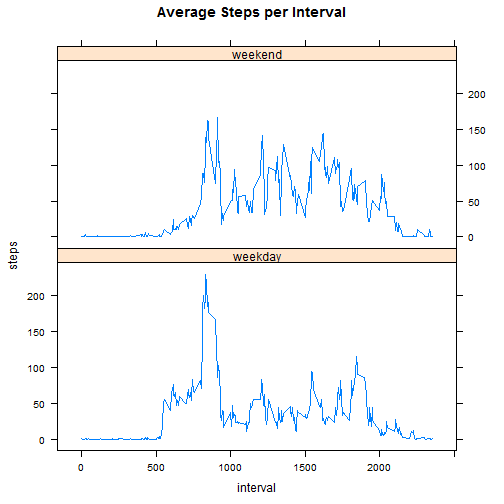
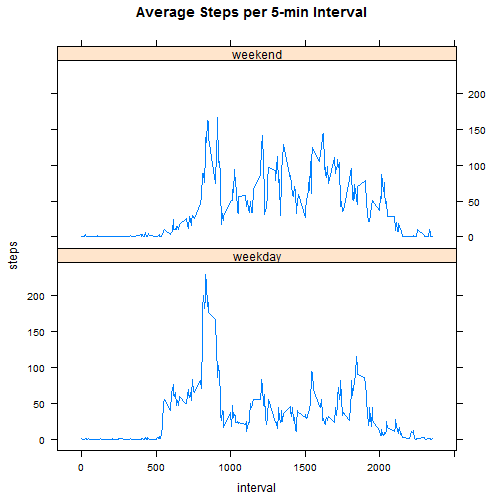
Final for grading
This version updates the first line chart to lattice (base plot didn't
look good); and has in-line mean/median values.  The lack of precise
control of rounding/scientific notation in knitr is annoying...

Changed region(s): [[0.2679, 0.0, 0.744, 0.0595]]

diff --git a/PA1_template.html b/PA1_template.html
@@ -188,9 +188,10 @@ hljs.initHighlightingOnLoad();
 <pre><code class="r">stepData &lt;- read.csv(&quot;./activity.csv&quot;, header = TRUE)
 stepData$date &lt;- as.Date(stepData$date,format=&quot;%Y-%m-%d&quot;)
 rowcount &lt;- nrow(stepData)
+options(scipen=4, digits=8)  ## to ensure data not in scientific notation digits
 </code></pre>
 
-<p>There are  r rowcount observations</p>
+<p>There are  17568 observations</p>
 
 <h2>What is mean total number of steps taken per day?</h2>
 
@@ -202,46 +203,48 @@ colnames(stepsDay) &lt;- c(&quot;date&quot;,&quot;steps&quot;)
 
 <p>Then create a histogram of steps taken each day</p>
 
-<pre><code class="r">hist(stepsDay$steps)
+<pre><code class="r">hist(stepsDay$steps, main=&quot;Histogram of Daily Steps&quot;, xlab = &quot;Daily Steps&quot;)
 </code></pre>
 
[2 lines of base64/hex data omitted]
 
 <p>And use summary to get the mean and median steps per day</p>
 
-<pre><code class="r">summary(stepsDay)
+<pre><code class="r">daymean &lt;- summary(stepsDay$steps)[c(4)]
+daymedian &lt;- summary(stepsDay$steps)[c(3)]
 </code></pre>
 
-<pre><code>##       date                steps      
-##  Min.   :2012-10-02   Min.   :   41  
-##  1st Qu.:2012-10-16   1st Qu.: 8841  
-##  Median :2012-10-29   Median :10765  
-##  Mean   :2012-10-30   Mean   :10766  
-##  3rd Qu.:2012-11-16   3rd Qu.:13294  
-##  Max.   :2012-11-29   Max.   :21194
-</code></pre>
+<p>Mean is 10766 and median is 10765 &ndash; almost identical</p>
 
 <h2>What is the average daily activity pattern?</h2>
 
 <p>First aggregate by interval to get mean steps per interval</p>
 
-<pre><code class="r">stepMean &lt;- aggregate(stepData$steps ~ as.factor(stepData$interval),FUN = &quot;mean&quot;)
+<pre><code class="r">stepMean &lt;- aggregate(stepData$steps ~ stepData$interval,FUN = &quot;mean&quot;)
 colnames(stepMean) &lt;- c(&quot;interval&quot;,&quot;meanSteps&quot;)
 </code></pre>
 
-<p>Next create a time series plot of average steps per 5-minute interval</p>
+<p>Next create a time series plot of average steps per 5-minute interva</p>
 
-<pre><code class="r">with (stepMean, plot(interval, meanSteps, type=&quot;l&quot;))
+<pre><code class="r">require(lattice)
 </code></pre>
 
[1 lines of base64/hex data omitted]
-The 5-min interval with maximum average steps is </p>
+<pre><code>## Loading required package: lattice
+</code></pre>
+
+<pre><code class="r">xyplot(meanSteps ~ interval, 
+       data=stepMean, t=&quot;l&quot;, main=&quot;Average Steps per Interval&quot;,)
+</code></pre>
+
[1 lines of base64/hex data omitted]
+
+<p>The 5-min interval with maximum average steps is </p>
 
 <pre><code class="r">stepMean[stepMean$meanSteps==max(stepMean$meanSteps),] 
 </code></pre>
 
 <pre><code>##     interval meanSteps
-## 104      835     206.2
+## 104      835 206.16981
 </code></pre>
 
 <h2>Imputing missing values</h2>
@@ -288,6 +291,9 @@ hist(stepsDayFix$steps)
 Fixmedian &lt;- summary(stepsDayFix$steps)[3]
 </code></pre>
 
+<p>New mean is 10750 vs. old value 10766; 
+New median is 10641 vs. old median 10765 </p>
+
 <h2>Are there differences in activity patterns between weekdays and weekends?</h2>
 
 <p>Using the dataset that replaces NA values with interval means;
@@ -323,17 +329,15 @@ with (stepDataFix, table(weekday, weekend))  ## check to ensure correct
 <p>And prepare chart using lattice</p>
 
 <pre><code class="r">require(lattice)
+xyplot(steps ~ interval | weekend, layout=c(1,2),
+       data=stepsWeekend, t=&quot;l&quot;, main=&quot;Average Steps per 5-min Interval&quot;)
 </code></pre>
 
-<pre><code>## Loading required package: lattice
-</code></pre>
[1 lines of base64/hex data omitted]
 
-<pre><code class="r">xyplot(steps ~ interval | weekend, layout=c(1,2),
-       data=stepsWeekend, t=&quot;l&quot;, main=&quot;Average Steps per Interval&quot;)
-</code></pre>
+<h3>Chart Interpretation</h3>
 
[1 lines of base64/hex data omitted]
-The chart shows that weekday steps rise around 5:30am and peak between 8am and 9am, and then drop off sharply for the rest of the day.  During the weekend, steps start lower in the morning, but are generally higher the rest of the day, and continue later into the evening.</p>
+<p>The chart shows that weekday steps rise around 5:30am and peak between 8am and 9am, and then drop off sharply for the rest of the day.  During the weekend, steps start lower in the morning, but are generally higher the rest of the day, and continue later into the evening.</p>
 
 </body>
 

diff --git a/PA1_template.md b/PA1_template.md
@@ -7,8 +7,9 @@ First read in the data and format the date properly
 stepData <- read.csv("./activity.csv", header = TRUE)
 stepData$date <- as.Date(stepData$date,format="%Y-%m-%d")
 rowcount <- nrow(stepData)
+options(scipen=4, digits=8)  ## to ensure data not in scientific notation digits
 ```
-There are  r rowcount` observations
+There are  17568 observations`
 
 ## What is mean total number of steps taken per day?
 First sum the steps by day
@@ -20,42 +21,43 @@ colnames(stepsDay) <- c("date","steps")
 Then create a histogram of steps taken each day
 
 ```r
-hist(stepsDay$steps)
+hist(stepsDay$steps, main="Histogram of Daily Steps", xlab = "Daily Steps")
 ```
 
-![plot of chunk unnamed-chunk-2](figure/unnamed-chunk-2.png) 
+![plot of chunk dayHistogram](figure/dayHistogram.png) 
 
 And use summary to get the mean and median steps per day
 
 ```r
-summary(stepsDay)
+daymean <- summary(stepsDay$steps)[c(4)]
+daymedian <- summary(stepsDay$steps)[c(3)]
 ```
-
-```
-##       date                steps      
-##  Min.   :2012-10-02   Min.   :   41  
-##  1st Qu.:2012-10-16   1st Qu.: 8841  
-##  Median :2012-10-29   Median :10765  
-##  Mean   :2012-10-30   Mean   :10766  
-##  3rd Qu.:2012-11-16   3rd Qu.:13294  
-##  Max.   :2012-11-29   Max.   :21194
-```
-
+Mean is 10766 and median is 10765 -- almost identical
 
 ## What is the average daily activity pattern?
 First aggregate by interval to get mean steps per interval
 
 ```r
-stepMean <- aggregate(stepData$steps ~ as.factor(stepData$interval),FUN = "mean")
+stepMean <- aggregate(stepData$steps ~ stepData$interval,FUN = "mean")
 colnames(stepMean) <- c("interval","meanSteps")
 ```
-Next create a time series plot of average steps per 5-minute interval
+Next create a time series plot of average steps per 5-minute interva
 
 ```r
-with (stepMean, plot(interval, meanSteps, type="l"))
+require(lattice)
+```
+
+```
+## Loading required package: lattice
+```
+
+```r
+xyplot(meanSteps ~ interval, 
+       data=stepMean, t="l", main="Average Steps per Interval",)
 ```
 
 ![plot of chunk intervalPlot](figure/intervalPlot.png) 
+
 The 5-min interval with maximum average steps is 
 
 ```r
@@ -64,7 +66,7 @@ stepMean[stepMean$meanSteps==max(stepMean$meanSteps),]
 
 ```
 ##     interval meanSteps
-## 104      835     206.2
+## 104      835 206.16981
 ```
 
 
@@ -116,7 +118,8 @@ hist(stepsDayFix$steps)
 Fixmean <- summary(stepsDayFix$steps)[4]
 Fixmedian <- summary(stepsDayFix$steps)[3]
 ```
-
+New mean is 10750 vs. old value 10766; 
+New median is 10641 vs. old median 10765 
 
 ## Are there differences in activity patterns between weekdays and weekends?
 Using the dataset that replaces NA values with interval means;
@@ -154,16 +157,11 @@ And prepare chart using lattice
 
 ```r
 require(lattice)
-```
-
-```
-## Loading required package: lattice
-```
-
-```r
 xyplot(steps ~ interval | weekend, layout=c(1,2),
-       data=stepsWeekend, t="l", main="Average Steps per Interval")
+       data=stepsWeekend, t="l", main="Average Steps per 5-min Interval")
 ```
 
 ![plot of chunk weekendCharts](figure/weekendCharts.png) 
+### Chart Interpretation
+
 The chart shows that weekday steps rise around 5:30am and peak between 8am and 9am, and then drop off sharply for the rest of the day.  During the weekend, steps start lower in the morning, but are generally higher the rest of the day, and continue later into the evening.
